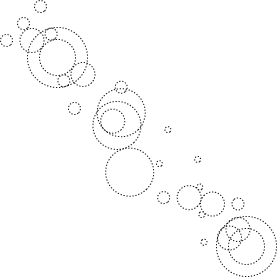
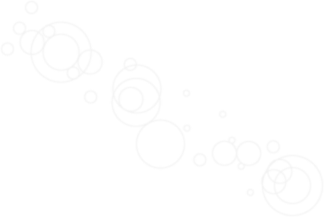
hiding register for landing demo

diff --git a/public/stylesheets/style.css b/public/stylesheets/style.css
@@ -118,22 +118,33 @@ body {
   font-size: 10px;
   line-height: 13px;
 }
-a {
-  color: #000;
-  text-decoration: underline;
-}
-a:visited,
-a:hover {
+a,
+button {
+  color: #404040;
+  background: #f2f2f2;
+  padding: 0;
+  border: none;
+  cursor: pointer;
   text-decoration: none;
 }
+a:hover,
+button:hover {
+  background: rgba(177,220,54,0.5);
+}
 a:active,
-a:focus {
+button:active {
+  background: rgba(177,220,54,0.25);
+}
+a:focus,
+button:focus {
   outline: none;
 }
-a::-moz-focus-inner {
+a::-moz-focus-inner,
+button::-moz-focus-inner {
   border: none;
 }
 p.mission-txt {
+  margin: 0 500px 0 0;
   font-size: 22px;
   line-height: 25px;
   color: #fff;
@@ -257,6 +268,15 @@ img[alt=image] {
   -webkit-border-radius: 5px;
   border-radius: 5px;
 }
+label {
+  color: #808080;
+  font-size: 11px;
+  font-weight: normal;
+}
+td {
+  white-space: nowrap;
+  padding: 2px 0 0 10px;
+}
 .left {
   float: left;
 }
@@ -279,10 +299,26 @@ img[alt=image] {
   padding: 5px;
 }
 .landing-logo {
-  margin: 0 632px 0 0;
+  margin: 200px 500px 0 0;
 }
-.landing-login {
+.landing-forms-wrap {
+  position: absolute;
+}
+.landing-forms {
   float: right;
+}
+.landing-form-controls {
+  white-space: nowrap;
+  text-align: right;
+}
+.landing-archipelago {
+  float: right;
+  margin: 5px 25px 0 0;
+  text-align: right;
+}
+.landing-copy {
+  color: #808080;
+  font-size: 9px;
 }
 #remember_me {
   margin: 0 5px 0 0;
@@ -396,8 +432,24 @@ input:focus {
 input::-moz-focus-inner {
   border: none;
 }
+#login-form {
+  position: absolute;
+  top: 0;
+  right: 0;
+}
+#register-form {
+  position: absolute;
+  bottom: -50px;
+  right: 0;
+  display: none;
+}
+#register-form td {
+  padding: 0 0 10px 10px;
+}
 #login-form input[type=text],
-#login-form input[type=password] {
+#login-form input[type=password],
+#register-form input[type=text],
+#register-form input[type=password] {
   font-family: monospace;
   font-weight: bold;
   background: #f2f2f2;
@@ -413,7 +465,9 @@ input::-moz-focus-inner {
   border-radius: 5px;
 }
 #login-form input[type=text]:focus,
-#login-form input[type=password]:focus {
+#login-form input[type=password]:focus,
+#register-form input[type=text]:focus,
+#register-form input[type=password]:focus {
   background: none;
   border: 1px solid #404040;
 }
@@ -614,32 +668,6 @@ div.profile-left {
 div.profile-right {
   width: 492px;
   margin: 0 0 0 492px;
-}
-button {
-  background: #f2f2f2;
-  padding: 0;
-  border: none;
-  cursor: pointer;
-}
-button:hover {
-  background: #d04c38;
-}
-button:active {
-  color: #fff;
-}
-button:focus {
-  outline: none;
-}
-button::-moz-focus-inner {
-  border: none;
-}
-label {
-  color: #808080;
-  font-size: 11px;
-  font-weight: normal;
-}
-td {
-  padding: 2px 0 0 10px;
 }
 input[type=checkbox],
 input[type=radio] {

diff --git a/public/javascripts/island.js b/public/javascripts/island.js
@@ -1238,6 +1238,29 @@ $(function() {
 		Island.cancelPulse();
 	});
 	
+	
+	
+	
+  // $('#goto-register-form a').live('click', function () {
+  //   $('#login-form').hide();
+  //   $('#register-form').fadeIn('fast');
+  //   $(this.parentNode).hide();
+  //   $('#goto-login-form').show();
+  //   $('input[name="newmember[name.first]"]').focus();
+  // });
+  // 
+  // $('#goto-login-form a').live('click', function () {
+  //   $('#register-form').hide();
+  //   $('#login-form').fadeIn('fast');
+  //   $(this.parentNode).hide();
+  //   $('#goto-register-form').show();
+  //   $('input[name="member[email]"]').focus();
+  // });
+	
+	
+	$('input[name="member[email]"]').focus();
+	
+	
 	// no submit
 	//$("form").live("submit",function() { return false; });
 	// focus and blur
@@ -1282,26 +1305,31 @@ $(function() {
   
 	
 	// rss, archipelago
-	$(".rss-icon, #archipelago").live("mouseenter",function() {
-		var src = $(this).attr("alt");
-		var alt = $(this).attr("src");
-		$(this).attr("src",src).attr("alt",alt);
-	});
-	$(".rss-icon, #archipelago").live("mouseleave",function() {
-		var src = $(this).attr("alt");
-		var alt = $(this).attr("src");
-		$(this).attr("src",src).attr("alt",alt);
-	});
+  // $('.is-archipelago').live('mouseenter',function() {
+  //     var $this = $(this)
+  //       , src = $this.attr('alt')
+  //    , alt = $this.attr('src')
+  //  ;
+  //  $(this).attr('src', src).attr('alt', alt);
+  // }).live('mouseleave',function() {
+  //  var $this = $(this)  
+  //    , src = $this.attr('alt')
+  //    , alt = $this.attr('src')
+  //  ;
+  //  $this.attr('src', src).attr('alt', alt);
+  // });
+	
+	
 	
 	$(window).scroll(function() {
 		if($(this).scrollTop()>0) {
-			$("#feeds").css({ opacity:0 });
-			$("#menu,#feeds,.members-bar").hide();
-			$("#header").css({ width:363 });
+			$('#feeds').css({ opacity:0 });
+			$('#menu,#feeds,.members-bar').hide();
+			$('#header').css({ width:363 });
 		} else if($(this).scrollTop()==0) {
-			$("#header").css({ width:984 });
-			$("#menu,#feeds,.members-bar").show();
-			$("#feeds").css({ opacity:1 });
+			$('#header').css({ width:984 });
+			$('#menu,#feeds,.members-bar').show();
+			$('#feeds').css({ opacity:1 });
 		}
 	});
 

diff --git a/app.js b/app.js
@@ -454,23 +454,30 @@ app.put('/comment/:id.:format?', loadMember, function (req, res, next) {
 
 
 // Members
-app.get('/members/new', function(req, res) {
+app.get('/members/new', function (req, res) {
   res.render('members/new.jade', {
     locals: { member: new Member() }
   });
 });
 
-app.post('/members.:format?', function(req, res) {
-  var member = new Member(req.body.member);
-
+app.post('/members.:format?', function (req, res) {
+  
+  // check email
+  delete req.body.newmember.email2;
+  
+  var member = new Member(req.body.newmember);
+  
+  console.log(req.body.newmember);
+  
   function memberSaveFailed() {
-    req.flash('error', 'Account creation failed');
-    res.render('members/new.jade', {
-      locals: { member: member }
-    });
+    // req.flash('error', 'Account creation failed');
+    // res.render('sessions/new.jade', {
+    //   locals: { member: member }
+    // });
   }
 
-  member.save(function(err) {
+  member.save(function (err) {
+    console.log(err);
     if (err) return memberSaveFailed();
 
     req.flash('info', 'Your account has been created');
